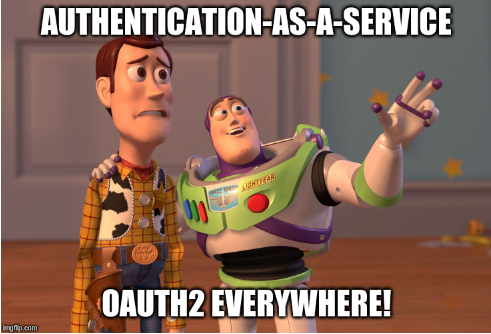
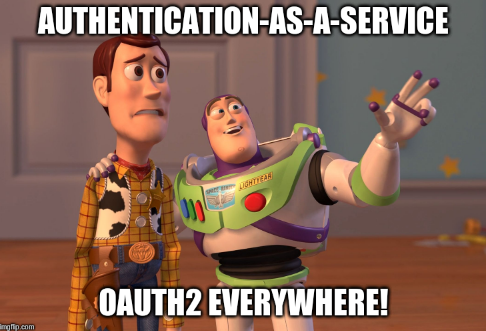
Minor fixes: cropping + french

diff --git a/_posts/2019-03-20-Authentication-as-a-Service.md b/_posts/2019-03-20-Authentication-as-a-Service.md
@@ -16,7 +16,7 @@ La prochaine édition de MontréHack sera tenu le 20 mars 2019.
 
 ![AaaS](/images/19-03_aaas.png)
 
-Le prochain MontréHack portera sur le challenge "Authentication-as-a-Service", de NSEC 2018, est un challenge Web où vous devrez aussi utiliser votre OAuth2 et Python Kung fu.
+Le prochain MontréHack portera sur le challenge "Authentication-as-a-Service", de NSEC 2018, un challenge Web où vous devrez utiliser votre OAuth2 et Python Kung fu.
 
 ## Outils et expérience requis
 
@@ -27,7 +27,7 @@ Le prochain MontréHack portera sur le challenge "Authentication-as-a-Service", 
 
 Ubisoft
 
-5505 Boul St-Laurent #2000, Montréal, QC H2T 1S6
+5505 Boul St-Laurent, Montréal, QC H2T 1S6
 
 Suite #2000
 
@@ -70,7 +70,7 @@ The next MontreHack will feature the challenge Authentication-as-a-Service, from
 
 Ubisoft
 
-5505 Boul St-Laurent #2000, Montréal, QC H2T 1S6
+5505 Boul St-Laurent, Montréal, QC H2T 1S6
 
 Suite #2000
 
